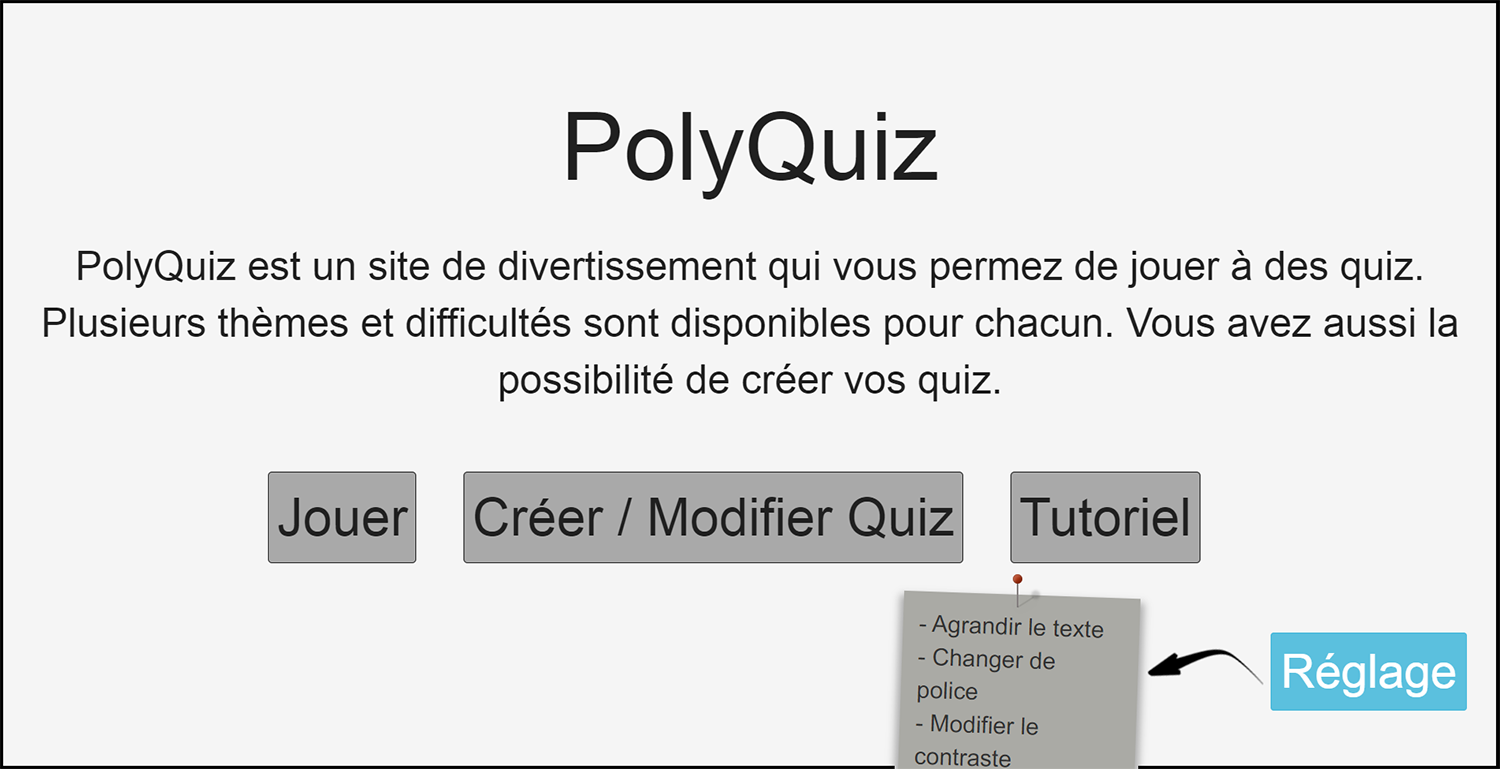
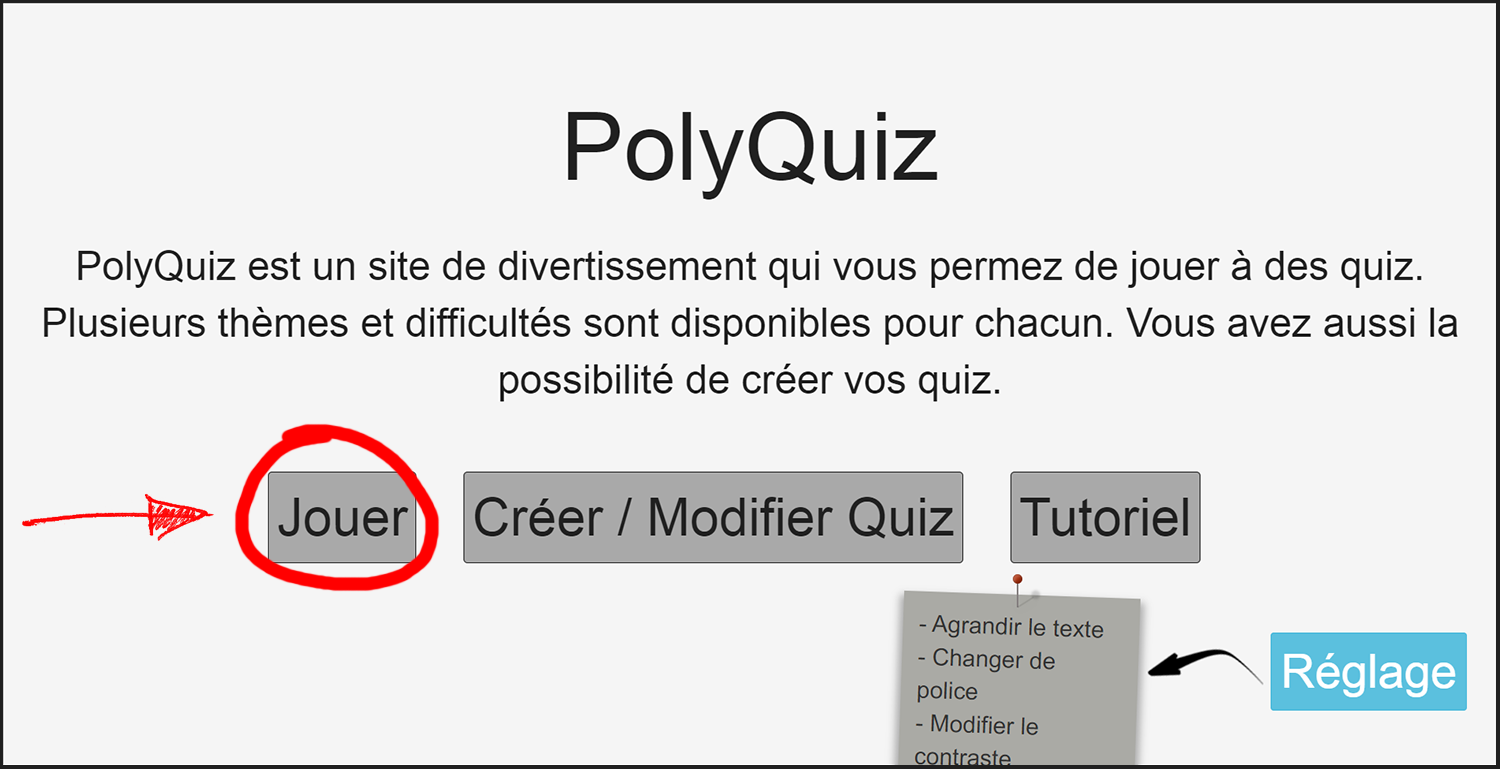
tuto jouer

diff --git a/front-end/src/app/tutoriel/tutoriel.component.html b/front-end/src/app/tutoriel/tutoriel.component.html
@@ -2,6 +2,9 @@
 
 <h2 class="titre2" id="Jouer"> Pour jouer : </h2>
 
+<!-- Jouer -->
+<!-- Etape 1  -->
+
 <div class="p-image">
     <img *ngIf="valueContrast == 1" src="../assets/cercle-1.png"/>
     <img *ngIf="valueContrast == 2" src="../assets/cercle-1-dalto1.png"/>
@@ -13,26 +16,245 @@
 </div>
 
 <!-- Afficher image -->
-<img class="image curseur" *ngIf="valueContrast == 1" src="../assets/menu_jouer_classic.png" (click)="setBiggerImage(true,1.1)"/> <!-- 1.1 correspond à la premère image du tutoriel en version classique -->  
-<img class="image curseur" *ngIf="valueContrast == 2" src="../assets/menu_jouer_daltonien1.png" (click)="setBiggerImage(true,1.2)"/> <!-- 1.2 correspond à la premère image du tutoriel en version daltonien 1 -->  
-<img class="image curseur" *ngIf="valueContrast == 3" src="../assets/menu_jouer_daltonien2.png" (click)="setBiggerImage(true,1.3)"/>
+<img class="image curseurIn" *ngIf="valueContrast == 1" src="../assets/menu_jouer_classic.png" (click)="setBiggerImage(true,1.1)"/> <!-- 1.1 correspond à la premère image du tutoriel en version classique -->  
+<img class="image curseurIn" *ngIf="valueContrast == 2" src="../assets/menu_jouer_daltonien1.png" (click)="setBiggerImage(true,1.2)"/> <!-- 1.2 correspond à la premère image du tutoriel en version daltonien 1 -->  
+<img class="image curseurIn" *ngIf="valueContrast == 3" src="../assets/menu_jouer_daltonien2.png" (click)="setBiggerImage(true,1.3)"/>
 
 
 <!-- Afficher image en grand -->
 <div class="big-image" *ngIf="displayBigImage == true && idImage == 1.1">
-    <img class ="curseur" src="../assets/menu_jouer_classic.png" width="100%" height="93%" (click)=setBiggerImage(false,0)> 
+    <img class ="curseurOut" src="../assets/menu_jouer_classic.png" width="100%" height="93%" (click)=setBiggerImage(false,0)> 
     <button class="closeButton" (click)="setBiggerImage(false,0)">Fermer</button>
 </div>
 
 <div class="big-image" *ngIf="displayBigImage == true && idImage == 1.2">
-    <img class ="curseur" src="../assets/menu_jouer_daltonien1.png" width="100%" height="93%" (click)=setBiggerImage(false,0)> 
+    <img class ="curseurOut" src="../assets/menu_jouer_daltonien1.png" width="100%" height="93%" (click)=setBiggerImage(false,0)> 
     <button class="closeButton" (click)="setBiggerImage(false,0)">Fermer</button>
 </div>
 
 <div class="big-image" *ngIf="displayBigImage == true && idImage == 1.3">
-    <img class ="curseur" src="../assets/menu_jouer_daltonien2.png" width="100%" height="93%" (click)=setBiggerImage(false,0)> 
+    <img class ="curseurOut" src="../assets/menu_jouer_daltonien2.png" width="100%" height="93%" (click)=setBiggerImage(false,0)> 
     <button class="closeButton" (click)="setBiggerImage(false,0)">Fermer</button>
 </div>
+
+<!-- Etape 2 -->
+
+<div class="p-image">
+    <img *ngIf="valueContrast == 1" src="../assets/cercle-2.png"/>
+    <img *ngIf="valueContrast == 2" src="../assets/cercle-2-dalto1.png"/>
+    <img *ngIf="valueContrast == 3" src="../assets/cercle-2-dalto2.png"/>
+    <p> Vous voyez maintenant tous les quiz disponibles. Il suffit de cliquer sur celui qui vous intéresse pour le lancer ! </p>
+</div>
+
+<!-- Afficher image -->
+<img class="image curseurIn" *ngIf="valueContrast == 1" src="../assets/SelectionQuizJouerClassic.png" (click)="setBiggerImage(true,2.1)"/> 
+<img class="image curseurIn" *ngIf="valueContrast == 2" src="../assets/SelectionQuizJouerDalto1.png" (click)="setBiggerImage(true,2.2)"/> 
+<img class="image curseurIn" *ngIf="valueContrast == 3" src="../assets/SelectionQuizJouerDalto2.png" (click)="setBiggerImage(true,2.3)"/>
+
+
+<!-- Afficher image en grand -->
+<div class="big-image" *ngIf="displayBigImage == true && idImage == 2.1">
+    <img class ="curseurOut" src="../assets/SelectionQuizJouerClassic.png" width="100%" height="93%" (click)=setBiggerImage(false,0)> 
+    <button class="closeButton" (click)="setBiggerImage(false,0)">Fermer</button>
+</div>
+
+<div class="big-image" *ngIf="displayBigImage == true && idImage == 2.2">
+    <img class ="curseurOut" src="../assets/SelectionQuizJouerDalto1.png" width="100%" height="93%" (click)=setBiggerImage(false,0)> 
+    <button class="closeButton" (click)="setBiggerImage(false,0)">Fermer</button>
+</div>
+
+<div class="big-image" *ngIf="displayBigImage == true && idImage == 2.3">
+    <img class ="curseurOut" src="../assets/SelectionQuizJouerDalto2.png" width="100%" height="93%" (click)=setBiggerImage(false,0)> 
+    <button class="closeButton" (click)="setBiggerImage(false,0)">Fermer</button>
+</div>
+
+<!-- Etape 3 -->
+
+<div class="p-image">
+    <img *ngIf="valueContrast == 1" src="../assets/cercle-3.png"/>
+    <img *ngIf="valueContrast == 2" src="../assets/cercle-3-dalto1.png"/>
+    <img *ngIf="valueContrast == 3" src="../assets/cercle-3-dalto2.png"/>
+    <p> Voici ce qu'il vous attend lorsque vous jouez à un quiz. Cliquer sur la réponse qui vous semble juste.</p>
+</div>
+
+<!-- Afficher image -->
+<img class="image curseurIn" *ngIf="valueContrast == 1" src="../assets/QuizJouerRepondreQuestionEtape1Classic.png" (click)="setBiggerImage(true,3.1)"/> 
+<img class="image curseurIn" *ngIf="valueContrast == 2" src="../assets/QuizJouerRepondreQuestionEtape1Dalto1.png" (click)="setBiggerImage(true,3.2)"/> 
+<img class="image curseurIn" *ngIf="valueContrast == 3" src="../assets/QuizJouerRepondreQuestionEtape1Dalto2.png" (click)="setBiggerImage(true,3.3)"/>
+
+
+<!-- Afficher image en grand -->
+<div class="big-image" *ngIf="displayBigImage == true && idImage == 3.1">
+    <img class ="curseurOut" src="../assets/QuizJouerRepondreQuestionEtape1Classic.png" width="100%" height="93%" (click)=setBiggerImage(false,0)> 
+    <button class="closeButton" (click)="setBiggerImage(false,0)">Fermer</button>
+</div>
+
+<div class="big-image" *ngIf="displayBigImage == true && idImage == 3.2">
+    <img class ="curseurOut" src="../assets/QuizJouerRepondreQuestionEtape1Dalto1.png" width="100%" height="93%" (click)=setBiggerImage(false,0)> 
+    <button class="closeButton" (click)="setBiggerImage(false,0)">Fermer</button>
+</div>
+
+<div class="big-image" *ngIf="displayBigImage == true && idImage == 3.3">
+    <img class ="curseurOut" src="../assets/QuizJouerRepondreQuestionEtape1Dalto2.png" width="100%" height="93%" (click)=setBiggerImage(false,0)> 
+    <button class="closeButton" (click)="setBiggerImage(false,0)">Fermer</button>
+</div>
+
+<!-- Etape 4 -->
+
+<div class="p-image">
+    <img *ngIf="valueContrast == 1" src="../assets/cercle-4.png"/>
+    <img *ngIf="valueContrast == 2" src="../assets/cercle-4-dalto1.png"/>
+    <img *ngIf="valueContrast == 3" src="../assets/cercle-4-dalto2.png"/>
+    <p> La réponse sur laquelle vous avez cliqué est maintenant séléctionnée. Vous pouvez changer de réponse en cliquant sur une autre réponse, cette dernière se séléctionnera à son tour. Une fois que vous êtes sûr de votre réponse, passer à l'étape suivante !</p>
+</div>
+
+<!-- Afficher image -->
+<img class="image curseurIn" *ngIf="valueContrast == 1" src="../assets/QuizJouerRepondreQuestionEtape2Classic.png" (click)="setBiggerImage(true,4.1)"/> 
+<img class="image curseurIn" *ngIf="valueContrast == 2" src="../assets/QuizJouerRepondreQuestionEtape2Dalto1.png" (click)="setBiggerImage(true,4.2)"/> 
+<img class="image curseurIn" *ngIf="valueContrast == 3" src="../assets/QuizJouerRepondreQuestionEtape2Dalto2.png" (click)="setBiggerImage(true,4.3)"/>
+
+
+<!-- Afficher image en grand -->
+<div class="big-image" *ngIf="displayBigImage == true && idImage == 4.1">
+    <img class ="curseurOut" src="../assets/QuizJouerRepondreQuestionEtape2Classic.png" width="100%" height="93%" (click)=setBiggerImage(false,0)> 
+    <button class="closeButton" (click)="setBiggerImage(false,0)">Fermer</button>
+</div>
+
+<div class="big-image" *ngIf="displayBigImage == true && idImage == 4.2">
+    <img class ="curseurOut" src="../assets/QuizJouerRepondreQuestionEtape2Dalto1.png" width="100%" height="93%" (click)=setBiggerImage(false,0)> 
+    <button class="closeButton" (click)="setBiggerImage(false,0)">Fermer</button>
+</div>
+
+<div class="big-image" *ngIf="displayBigImage == true && idImage == 4.3">
+    <img class ="curseurOut" src="../assets/QuizJouerRepondreQuestionEtape2Dalto2.png" width="100%" height="93%" (click)=setBiggerImage(false,0)> 
+    <button class="closeButton" (click)="setBiggerImage(false,0)">Fermer</button>
+</div>
+
+<!-- Etape 5 -->
+
+<div class="p-image">
+    <img *ngIf="valueContrast == 1" src="../assets/cercle-5.png"/>
+    <img *ngIf="valueContrast == 2" src="../assets/cercle-5-dalto1.png"/>
+    <img *ngIf="valueContrast == 3" src="../assets/cercle-5-dalto2.png"/>
+    <p> Il vous suffit de cliquer sur "valider" pour confirmer votre réponse.</p>
+</div>
+
+<!-- Afficher image -->
+<img class="image curseurIn" *ngIf="valueContrast == 1" src="../assets/QuizJouerRepondreQuestionEtape3Classic.png" (click)="setBiggerImage(true,5.1)"/>  
+<img class="image curseurIn" *ngIf="valueContrast == 2" src="../assets/QuizJouerRepondreQuestionEtape3Dalto1.png" (click)="setBiggerImage(true,5.2)"/>   
+<img class="image curseurIn" *ngIf="valueContrast == 3" src="../assets/QuizJouerRepondreQuestionEtape3Dalto2.png" (click)="setBiggerImage(true,5.3)"/>
+
+
+<!-- Afficher image en grand -->
+<div class="big-image" *ngIf="displayBigImage == true && idImage == 5.1">
+    <img class ="curseurOut" src="../assets/QuizJouerRepondreQuestionEtape3Classic.png" width="100%" height="93%" (click)=setBiggerImage(false,0)> 
+    <button class="closeButton" (click)="setBiggerImage(false,0)">Fermer</button>
+</div>
+
+<div class="big-image" *ngIf="displayBigImage == true && idImage == 5.2">
+    <img class ="curseurOut" src="../assets/QuizJouerRepondreQuestionEtape3Dalto1.png" width="100%" height="93%" (click)=setBiggerImage(false,0)> 
+    <button class="closeButton" (click)="setBiggerImage(false,0)">Fermer</button>
+</div>
+
+<div class="big-image" *ngIf="displayBigImage == true && idImage == 5.3">
+    <img class ="curseurOut" src="../assets/QuizJouerRepondreQuestionEtape3Dalto2.png" width="100%" height="93%" (click)=setBiggerImage(false,0)> 
+    <button class="closeButton" (click)="setBiggerImage(false,0)">Fermer</button>
+</div>
+
+<!-- Etape 6 -->
+
+<div class="p-image">
+    <img *ngIf="valueContrast == 1" src="../assets/cercle-6.png"/>
+    <img *ngIf="valueContrast == 2" src="../assets/cercle-6-dalto1.png"/>
+    <img *ngIf="valueContrast == 3" src="../assets/cercle-6-dalto2.png"/>
+    <p> Si c'était la ou une des bonnes réponses, voici ce qu'il s'affiche. Vous n'avez plus qu'à cliquer sur suivant pour aller à la prochaine question et répéter tout ce que l'on vient de voir depuis la troisième étape, jusqu'à la dernière question.</p>
+</div>
+
+<!-- Afficher image -->
+<img class="image curseurIn" *ngIf="valueContrast == 1" src="../assets/QuizJouerRepondreQuestionEtape4Classic.png" (click)="setBiggerImage(true,6.1)"/>  
+<img class="image curseurIn" *ngIf="valueContrast == 2" src="../assets/QuizJouerRepondreQuestionEtape4Dalto1.png" (click)="setBiggerImage(true,6.2)"/>   
+<img class="image curseurIn" *ngIf="valueContrast == 3" src="../assets/QuizJouerRepondreQuestionEtape4Dalto2.png" (click)="setBiggerImage(true,6.3)"/>
+
+
+<!-- Afficher image en grand -->
+<div class="big-image" *ngIf="displayBigImage == true && idImage == 6.1">
+    <img class ="curseurOut" src="../assets/QuizJouerRepondreQuestionEtape4Classic.png" width="100%" height="93%" (click)=setBiggerImage(false,0)> 
+    <button class="closeButton" (click)="setBiggerImage(false,0)">Fermer</button>
+</div>
+
+<div class="big-image" *ngIf="displayBigImage == true && idImage == 6.2">
+    <img class ="curseurOut" src="../assets/QuizJouerRepondreQuestionEtape4Dalto1.png" width="100%" height="93%" (click)=setBiggerImage(false,0)> 
+    <button class="closeButton" (click)="setBiggerImage(false,0)">Fermer</button>
+</div>
+
+<div class="big-image" *ngIf="displayBigImage == true && idImage == 6.3">
+    <img class ="curseurOut" src="../assets/QuizJouerRepondreQuestionEtape4Dalto2.png" width="100%" height="93%" (click)=setBiggerImage(false,0)> 
+    <button class="closeButton" (click)="setBiggerImage(false,0)">Fermer</button>
+</div>
+
+<!-- Etape 7 -->
+
+<div class="p-image">
+    <img *ngIf="valueContrast == 1" src="../assets/cercle-7.png"/>
+    <img *ngIf="valueContrast == 2" src="../assets/cercle-7-dalto1.png"/>
+    <img *ngIf="valueContrast == 3" src="../assets/cercle-7-dalto2.png"/>
+    <p> Si c'était une mauvaise réponse, voici ce qu'il s'affiche. Vous n'avez plus qu'à cliquer sur suivant pour aller à la prochaine question et répéter tout ce que l'on vient de voir depuis la troisième étape, jusqu'à la dernière question.</p>
+</div>
+
+<!-- Afficher image -->
+<img class="image curseurIn" *ngIf="valueContrast == 1" src="../assets/QuizJouerRepondreQuestionEtape5Classic.png" (click)="setBiggerImage(true,7.1)"/> 
+<img class="image curseurIn" *ngIf="valueContrast == 2" src="../assets/QuizJouerRepondreQuestionEtape5Dalto1.png" (click)="setBiggerImage(true,7.2)"/>  
+<img class="image curseurIn" *ngIf="valueContrast == 3" src="../assets/QuizJouerRepondreQuestionEtape5Dalto2.png" (click)="setBiggerImage(true,7.3)"/>
+
+
+<!-- Afficher image en grand -->
+<div class="big-image" *ngIf="displayBigImage == true && idImage == 7.1">
+    <img class ="curseurOut" src="../assets/QuizJouerRepondreQuestionEtape5Classic.png" width="100%" height="93%" (click)=setBiggerImage(false,0)> 
+    <button class="closeButton" (click)="setBiggerImage(false,0)">Fermer</button>
+</div>
+
+<div class="big-image" *ngIf="displayBigImage == true && idImage == 7.2">
+    <img class ="curseurOut" src="../assets/QuizJouerRepondreQuestionEtape5Dalto1.png" width="100%" height="93%" (click)=setBiggerImage(false,0)> 
+    <button class="closeButton" (click)="setBiggerImage(false,0)">Fermer</button>
+</div>
+
+<div class="big-image" *ngIf="displayBigImage == true && idImage == 7.3">
+    <img class ="curseurOut" src="../assets/QuizJouerRepondreQuestionEtape5Dalto2.png" width="100%" height="93%" (click)=setBiggerImage(false,0)> 
+    <button class="closeButton" (click)="setBiggerImage(false,0)">Fermer</button>
+</div>
+
+<!-- Etape 8 -->
+
+<div class="p-image">
+    <img *ngIf="valueContrast == 1" src="../assets/cercle-8.png"/>
+    <img *ngIf="valueContrast == 2" src="../assets/cercle-8-dalto1.png"/>
+    <img *ngIf="valueContrast == 3" src="../assets/cercle-8-dalto2.png"/>
+    <p> Une fois que vous aurez répondu à toutes les questions, vous pourrez obtenir votre note (S, A, B, C, D, avec S la plus forte et D la moins bonne) ainsi que voir votre nombre de bonnes et mauvaises réponses. Pour faire un autre quiz ou créer le votre, cliquer sur "Retour au menu" et laisser vous guider !</p>
+</div>
+
+<!-- Afficher image -->
+<img class="image curseurIn" *ngIf="valueContrast == 1" src="../assets/QuizJouerRepondreQuestionEtape6Classic.png" (click)="setBiggerImage(true,8.1)"/>  
+<img class="image curseurIn" *ngIf="valueContrast == 2" src="../assets/QuizJouerRepondreQuestionEtape6Dalto1.png" (click)="setBiggerImage(true,8.2)"/>   
+<img class="image curseurIn" *ngIf="valueContrast == 3" src="../assets/QuizJouerRepondreQuestionEtape6Dalto2.png" (click)="setBiggerImage(true,8.3)"/>
+
+
+<!-- Afficher image en grand -->
+<div class="big-image" *ngIf="displayBigImage == true && idImage == 8.1">
+    <img class ="curseurOut" src="../assets/QuizJouerRepondreQuestionEtape6Classic.png" width="100%" height="93%" (click)=setBiggerImage(false,0)> 
+    <button class="closeButton" (click)="setBiggerImage(false,0)">Fermer</button>
+</div>
+
+<div class="big-image" *ngIf="displayBigImage == true && idImage == 8.2">
+    <img class ="curseurOut" src="../assets/QuizJouerRepondreQuestionEtape6Dalto1.png" width="100%" height="93%" (click)=setBiggerImage(false,0)> 
+    <button class="closeButton" (click)="setBiggerImage(false,0)">Fermer</button>
+</div>
+
+<div class="big-image" *ngIf="displayBigImage == true && idImage == 8.3">
+    <img class ="curseurOut" src="../assets/QuizJouerRepondreQuestionEtape6Dalto2.png" width="100%" height="93%" (click)=setBiggerImage(false,0)> 
+    <button class="closeButton" (click)="setBiggerImage(false,0)">Fermer</button>
+</div>
+
+<!-- Créer  -->
 
 <h2 class="titre2" id="Creer"> Pour créer un quiz : </h2>
 <!-- Dans la partie créer, comme tout le monde a accès à tous les quiz du site, il peut être long de retrouver son quiz créé, essayer de mettre un nom "unique" exemple : Le drapeau français par Joseph

diff --git a/front-end/src/app/tutoriel/tutoriel.component.scss b/front-end/src/app/tutoriel/tutoriel.component.scss
@@ -40,10 +40,11 @@ a:hover {
 
 .listeLien {
     display: inline-block;
+    background-color: var(--main-bg-color);
     padding: 5px;
     border: 1px solid;
     position: fixed;
-    bottom : 500px;
+    bottom : 200px;
     right: 20px;
 }
 
@@ -57,6 +58,7 @@ p {
 }
 
 .p-image {
+    display: block;
     margin-left: 20px;
 }
 
@@ -69,10 +71,15 @@ p {
     display: block;
     margin-left: 50px;
     width: 80%;
+    margin-bottom: 30px;
 }
 
-.curseur {
-    cursor: pointer;
+.curseurIn {
+    cursor: zoom-in;
+}
+
+.curseurOut {
+    cursor: zoom-out;
 }
 
 .big-image {
